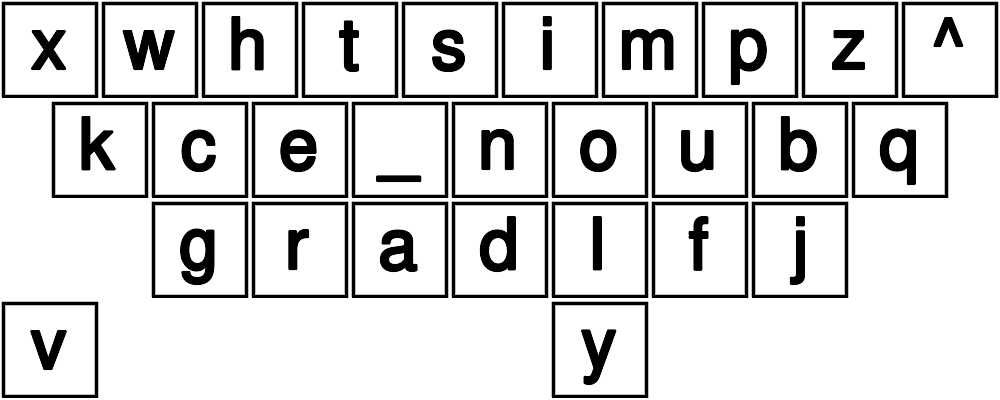
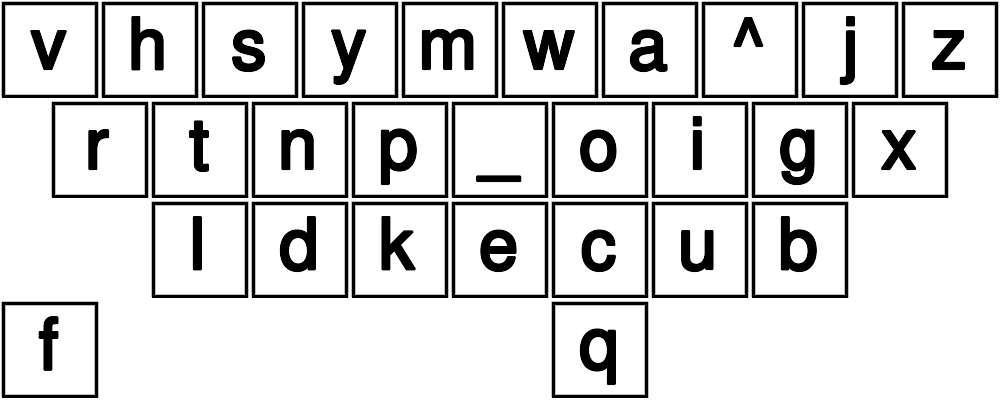
First working example of keyboard using simpy distance

diff --git a/main.py b/main.py
@@ -6,6 +6,8 @@ from deap import creator, base, tools, algorithms
 import numpy
 from Imaging.keyboardImage import makeStringImage
 from fitness.latency_map import get_fitness
+from second_simpy_test import get_distance_for_chromosome, preprocess_input_text
+from simpy_keyboard import TEXT_INPUT
 
 CHARACTERS = "qwertyuiopasdfghjkl^zxcvbnm "
 
@@ -20,7 +22,7 @@ def alphabetical_fitness(individual):
     return (fitness_score,)
 
 
-def create_toolbox(indpb, tournsize):
+def create_toolbox(indpb, tournsize, preprocessed_input_text):
     # We have a single fitness function that we want to minimize/maximize
     # creator.create("FitnessMax", base.Fitness, weights=(1.0,))
     # creator.create("Individual", list, fitness=creator.FitnessMax)
@@ -35,8 +37,17 @@ def create_toolbox(indpb, tournsize):
     )
     # Create a population of individuals.
     toolbox.register("population", tools.initRepeat, list, toolbox.individual)
-    toolbox.register("evaluate", get_fitness)
+
+    # toolbox.register("evaluate", get_fitness)
     # toolbox.register("evaluate", alphabetical_fitness)
+    # TODO If I don't set a keyword argument then then preprocessed_input text is set as the
+    # chromosome argument. I should try to learn why that is.
+    toolbox.register(
+        "evaluate",
+        get_distance_for_chromosome,
+        preprocessed_input_text=preprocessed_input_text,
+    )
+
     # We use ordered crossover
     toolbox.register("mate", tools.cxOrdered)
     # For mutation we will swap elements from two points on the individual.
@@ -58,7 +69,8 @@ def main():
     # The number of individuals participating in each tournament.
     tournsize = 30
 
-    toolbox = create_toolbox(indpb, tournsize)
+    preprocessed_input_text = preprocess_input_text(TEXT_INPUT)
+    toolbox = create_toolbox(indpb, tournsize, preprocessed_input_text)
 
     pop = toolbox.population(n=POP_SIZE)
     hof = tools.HallOfFame(1)

diff --git a/second_simpy_test.py b/second_simpy_test.py
@@ -37,7 +37,8 @@ COORDS = (
 )
 LEFT_LETTERS = set([0, 1, 2, 3, 4, 10, 11, 12, 13, 19, 20, 21, 22])
 RIGHT_LETTERS = set([5, 6, 7, 8, 9, 15, 16, 17, 18, 24, 25, 26, 27])
-CHARACTER_SET = set("qwertyuiopasdfghjkl^zxcvbnm ")
+CHARACTERS = "qwertyuiopasdfghjkl^zxcvbnm "
+CHARACTER_SET = set(CHARACTERS)
 
 
 def insert_char_before_capitals(text, char_to_insert="^"):
@@ -120,7 +121,13 @@ def thumb(env, q, thumb_type, position, my_container, other_container, letter_co
         # )
 
 
+# Chromosome can be a string or a list (hopefully this won't come back to bite me).
 def get_distance_for_chromosome(chromosome, preprocessed_input_text):
+    # Chromosome is a list of indices (technically deap.creator.Individual),
+    # so we need to convert it to characters.
+    if type(chromosome) != str:
+        individual_as_characters = [CHARACTERS[i] for i in chromosome]
+        chromosome = "".join(individual_as_characters)
     left_chars = set((chromosome[i] for i in LEFT_LETTERS))
     right_chars = set((chromosome[i] for i in RIGHT_LETTERS))
     letter_coords = {char: COORDS[i] for i, char in enumerate(chromosome)}
@@ -146,8 +153,11 @@ def get_distance_for_chromosome(chromosome, preprocessed_input_text):
     )
 
     env.run()
-    print(f"Final environment time: {env.now}")
-    return env.now
+    # print(f"Final environment time: {env.now}")
+    # Fitness values must be iterable because single fitness functions
+    # are a special case of multi-fitness functions.
+    # https://deap.readthedocs.io/en/master/overview.html#operators
+    return (env.now,)
 
 
 if __name__ == "__main__":
